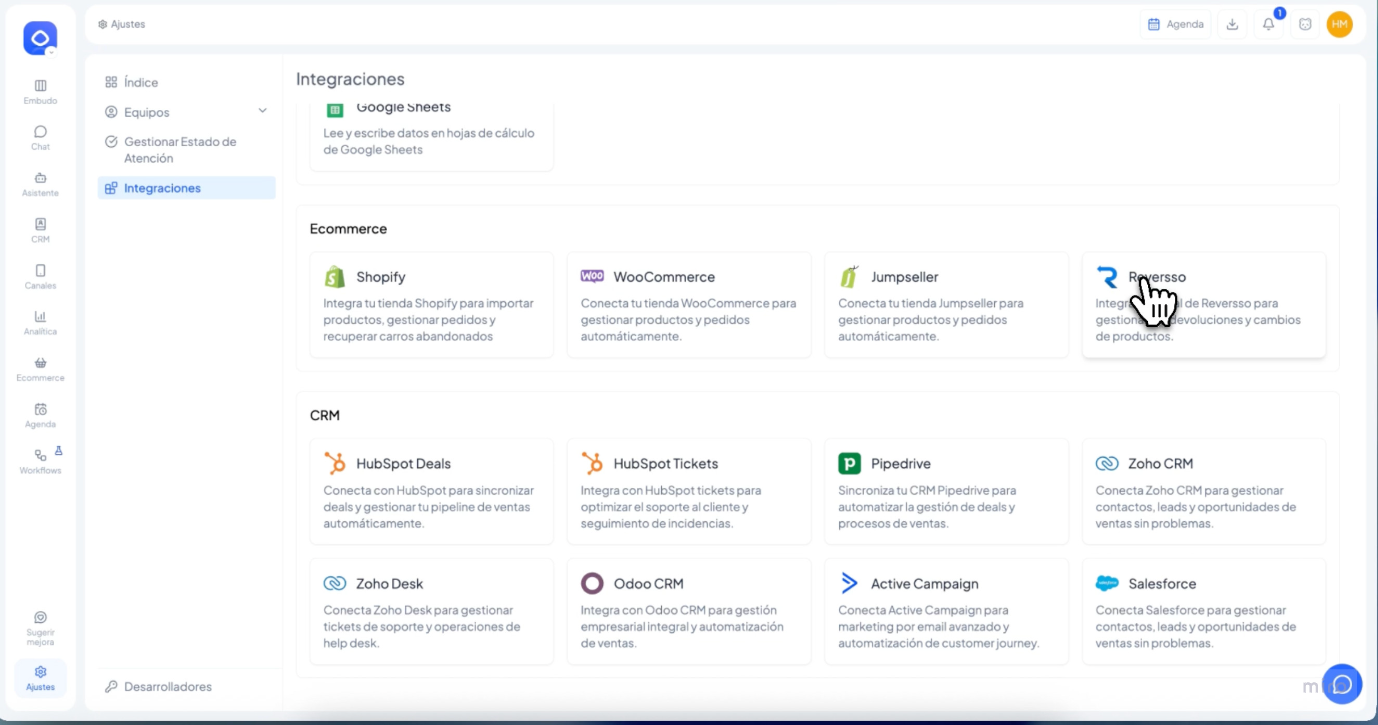
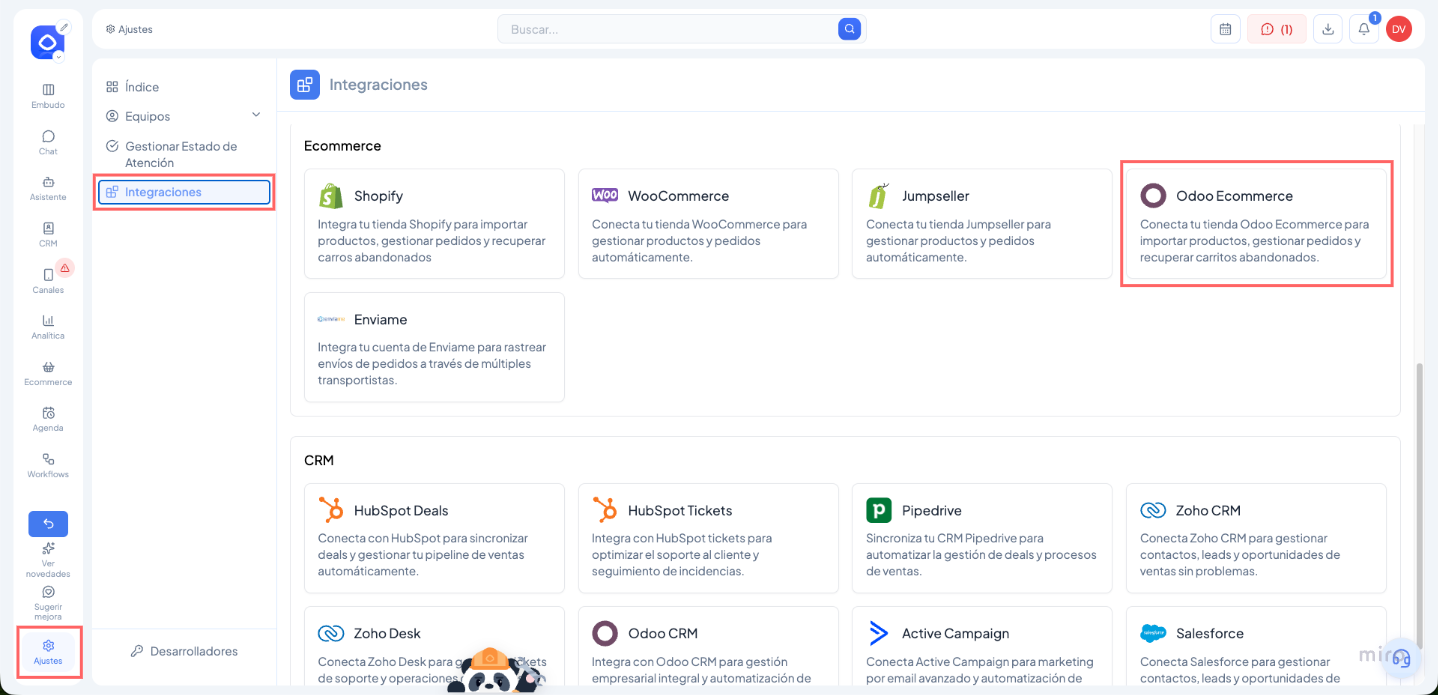
GITBOOK-17: No subject

diff --git a/asistente-ecommerce/parte-3-automatizaciones/recuperacion-de-carritos-abandonados-en-shopify.md b/asistente-ecommerce/parte-3-automatizaciones/recuperacion-de-carritos-abandonados-en-shopify.md
@@ -88,21 +88,30 @@ No cierres esta pestaña, ya que volveremos a copiar esta información.
 
     <figure><img src="../.gitbook/assets/image (8).png" alt=""><figcaption></figcaption></figure>
 3. Luego selecciona **Automatizaciones.**
-4.  Haz clic en Crear automatizacion.\
-    <br>
+4.  Haz clic en Crear automatizacion.
 
     <figure><img src="../.gitbook/assets/image (21).png" alt=""><figcaption></figcaption></figure>
-5. Selecciona la plantilla **Recuperar un pedido abandonado**.
+5.  Seleccionar Crear **Automatizacion Personalizada**<br>
+
+    <figure><img src="../.gitbook/assets/image.png" alt=""><figcaption></figcaption></figure>
+
+
+6.  Seleccionar **Explorar Plantillas**<br>
+
+    <figure><img src="../.gitbook/assets/image (1).png" alt=""><figcaption></figcaption></figure>
+
+
+7. Selecciona la plantilla **Recuperar un pedido abandonado**.
 
 ![](<../.gitbook/assets/image png Dec 23 2025 01 31 29 3983 PM.png>)
 
-6. Activa la automatización.
+6.  Instalar la automatización.\
+    <br>
 
-![](<../.gitbook/assets/image png Dec 23 2025 01 32 49 2696 PM.png>)
+    <figure><img src="../.gitbook/assets/image (2).png" alt=""><figcaption></figcaption></figure>
+7.  Aparecera esta vista y entraremos a editarla<br>
 
-7. Haz clic en **Editar** y luego en **Continuar**.
-
-![](<../.gitbook/assets/image png Dec 23 2025 01 32 59 4711 PM.png>)
+    <figure><img src="../.gitbook/assets/image (22).png" alt=""><figcaption></figcaption></figure>
 {% endstep %}
 
 {% step %}
@@ -115,7 +124,7 @@ Dentro del flujo de automatización:
 
 Recomendación: 5 horas.
 
-![](<../.gitbook/assets/image png Dec 23 2025 01 34 00 6736 PM.png>)
+<figure><img src="../.gitbook/assets/image (24).png" alt=""><figcaption></figcaption></figure>
 
 Este valor puedes ajustarlo según tu estrategia.
 {% endstep %}
@@ -124,46 +133,31 @@ Este valor puedes ajustarlo según tu estrategia.
 #### Paso 4: Eliminar el envío de correo por defecto
 
 1. Al final del flujo encontrarás un bloque llamado **Send marketing email**.
-2. Elimínalo, ya que no utilizaremos correo electrónico para este flujo.
+2.  Elimínalo, ya que no utilizaremos correo electrónico para este flujo.<br>
 
-![](<../.gitbook/assets/image png Dec 23 2025 01 34 49 4748 PM.png>)
+    <figure><img src="../.gitbook/assets/image (25).png" alt=""><figcaption></figcaption></figure>
 {% endstep %}
 
 {% step %}
 #### Paso 5: Agregar la acción HTTP Request
 
-1. Haz clic en **Add action** (Agregar acción).
-2. Busca y selecciona **HTTP request**.
+1. Haz clic en **Add action en verdadero** (Agregar acción).
+2.  Busca y selecciona **HTTP request**.\
+    <br>
 
-![](<../.gitbook/assets/image png Dec 23 2025 01 35 26 1266 PM.png>)
+    <figure><img src="../.gitbook/assets/image (26).png" alt=""><figcaption></figcaption></figure>
 
 **Configuración del HTTP request**
 
-Usa la información de Vambe que obtuviste en el Paso 1. Copia y pega exactamente lo que aparece en Vambe dentro de los campos de Shopify.
+Usa la información de Vambe que obtuviste en el Paso 1. Copia y pega donde aparece CURL.
 
-![](<../.gitbook/assets/Screenshare   2025 12 23 9_52_42 AM (1) gif.gif>)
+<figure><img src="../.gitbook/assets/image (27).png" alt="" width="375"><figcaption></figcaption></figure>
 
-* Método: cambia **HTTP method** a **POST**.
+Volver a Shopify y seleccionar **Importar Curl** y pegar el copiado en Vambe<br>
 
-![](<../.gitbook/assets/image png Dec 23 2025 01 36 03 2593 PM.png>)
+<figure><img src="../.gitbook/assets/image (29).png" alt=""><figcaption></figcaption></figure>
 
-* URL: copia la **URL** desde Vambe y pégala en el campo **URL** de Shopify.
-
-![](<../.gitbook/assets/image png Dec 23 2025 01 37 24 9133 PM.png>)
-
-* Headers: agrega los siguientes headers:
-  * Content-Type: `application/json`
-  * X-API-KEY: valor único por cuenta (cópialo desde Vambe)
-
-{% hint style="warning" %}
-Content-Type siempre es `application/json`. X-API-KEY cambia según cada cuenta.
-{% endhint %}
-
-* Body: copia todo el body desde Vambe y pégalo en el campo **Body** en Shopify.
-
-Ejemplo visual de cómo debería quedar:
-
-![](<../.gitbook/assets/image png Dec 23 2025 01 40 54 6584 PM.png>)
+Luego click en Importar y listo !<br>
 {% endstep %}
 
 {% step %}

diff --git a/asistente-ecommerce/parte-3-automatizaciones/integracion-reversso-devoluciones-automaticas.md b/asistente-ecommerce/parte-3-automatizaciones/integracion-reversso-devoluciones-automaticas.md
@@ -36,9 +36,9 @@ Para conectar ambas plataformas, necesitamos la dirección exacta de tu portal d
 1. Ingresa a tu cuenta de Reversso.
 2. Copia la URL de tu portal (generalmente tiene el formato `tutienda.reversso.dev` o similar).
 
-<figure><img src="../.gitbook/assets/image (1).png" alt=""><figcaption></figcaption></figure>
+<figure><img src="../.gitbook/assets/image (1) (1).png" alt=""><figcaption></figcaption></figure>
 
-<figure><img src="../.gitbook/assets/image (2).png" alt=""><figcaption></figcaption></figure>
+<figure><img src="../.gitbook/assets/image (2) (1).png" alt=""><figcaption></figcaption></figure>
 
 ***
 
@@ -48,7 +48,7 @@ Para conectar ambas plataformas, necesitamos la dirección exacta de tu portal d
 2. Selecciona la pestaña Integraciones.
 3.  Baja hasta la sección Ecommerce y busca la tarjeta de Reversso.<br>
 
-    <figure><img src="../.gitbook/assets/image (3).png" alt=""><figcaption></figcaption></figure>
+    <figure><img src="../.gitbook/assets/image (3) (1).png" alt=""><figcaption></figcaption></figure>
 4.  Haz clic en Conectar.\
     <br>
 

diff --git a/asistente-ecommerce/parte-1-obtener-credenciales/como-conectar-tu-tienda-odoo-ecommerce-con-vambe.md b/asistente-ecommerce/parte-1-obtener-credenciales/como-conectar-tu-tienda-odoo-ecommerce-con-vambe.md
@@ -22,7 +22,7 @@ description: >-
 3. Ingresa a la sección **Integraciones**.
 4. Dentro de la categoría **Ecommerce**, busca y selecciona **Odoo Ecommerce**.
 
-<figure><img src="../.gitbook/assets/image.png" alt=""><figcaption></figcaption></figure>
+<figure><img src="../.gitbook/assets/image (3).png" alt=""><figcaption></figcaption></figure>
 
 ***
 
